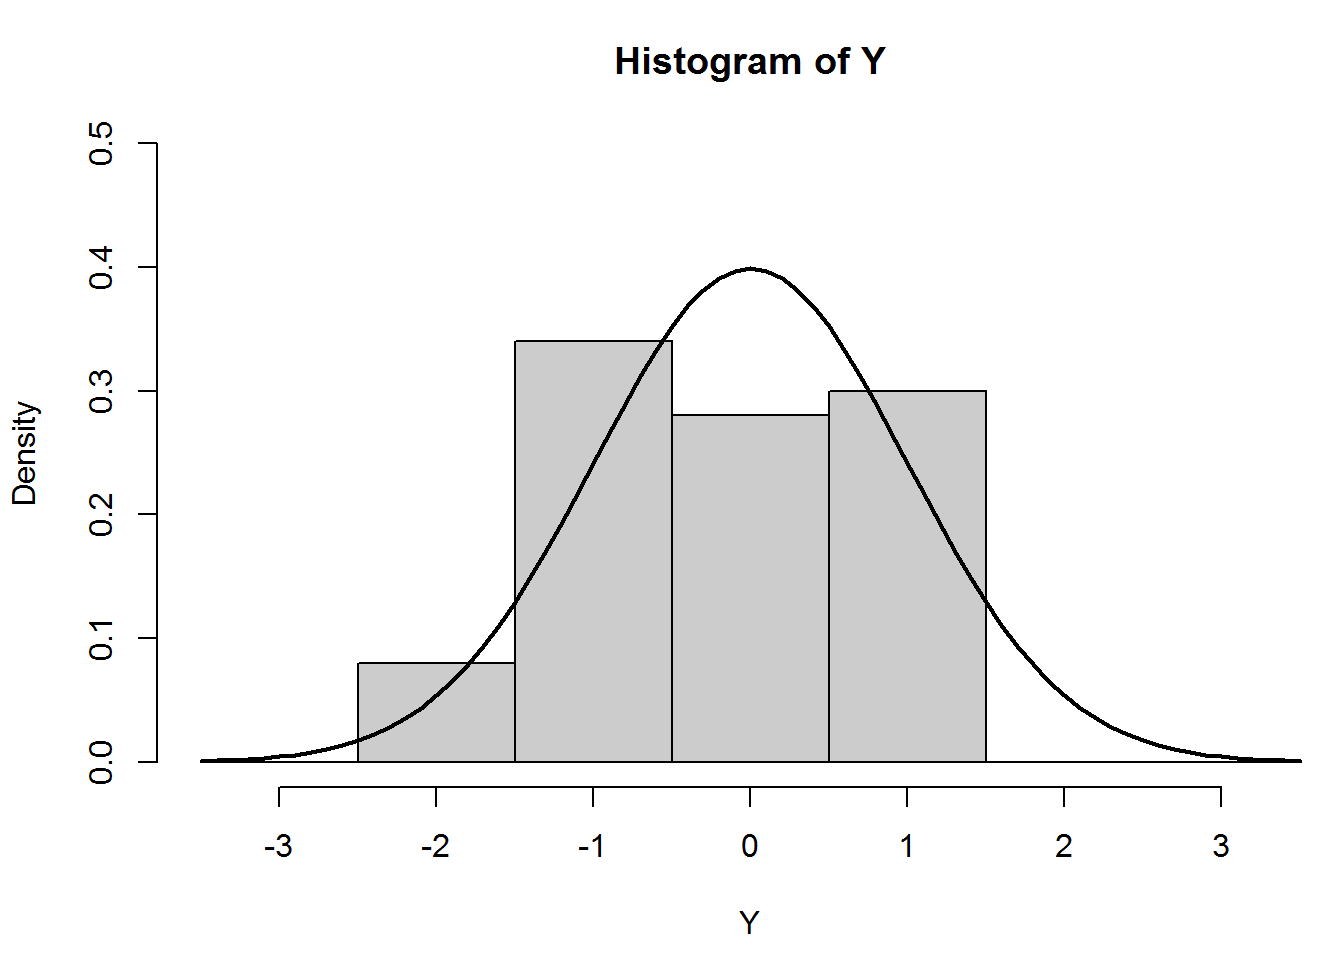
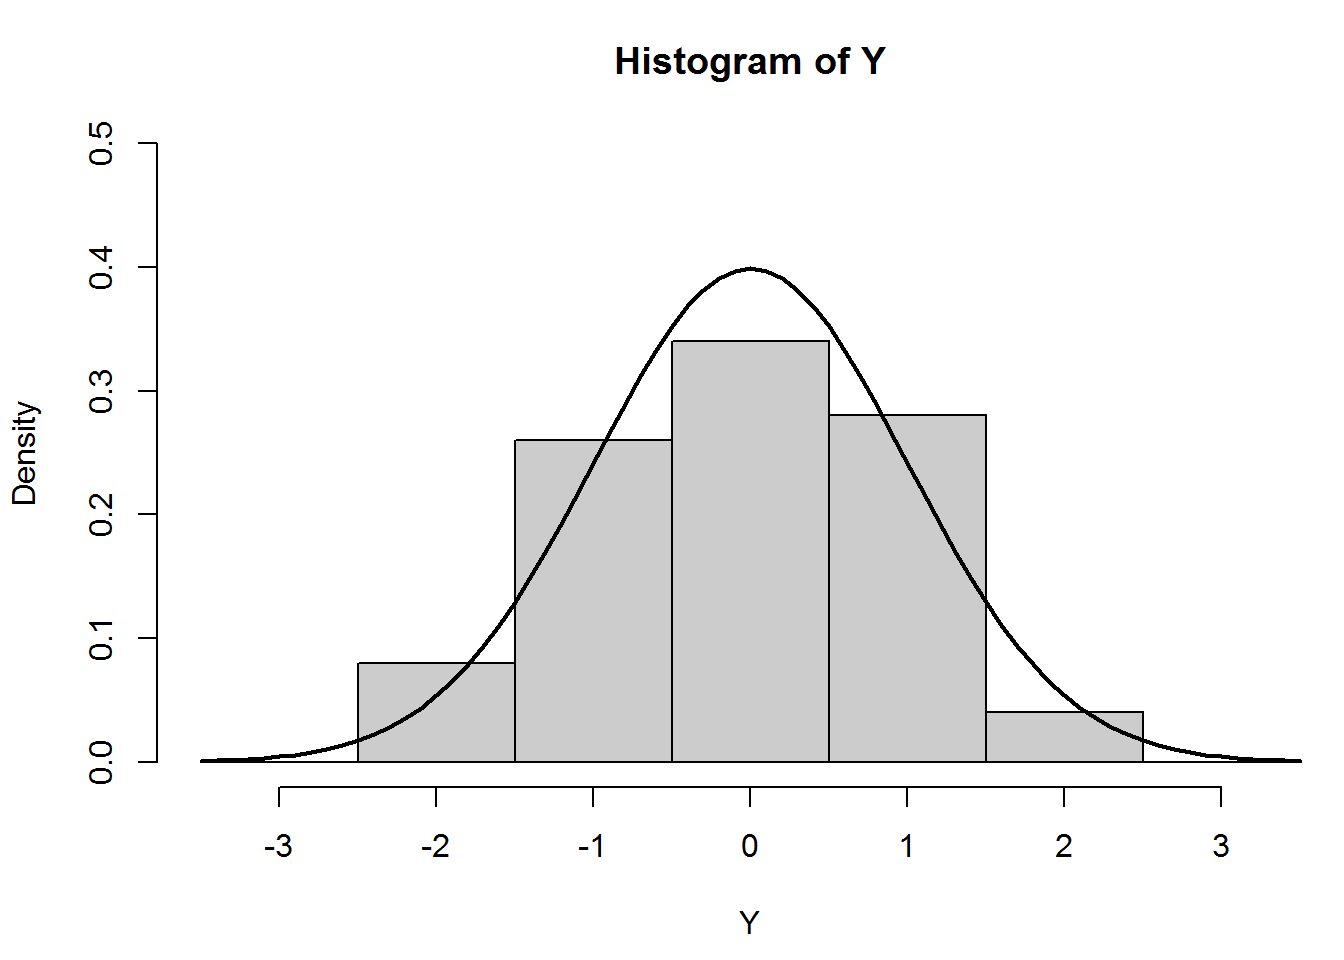
Mejoras.

Changed region(s): [[0.375, 0.3438, 0.75, 0.4688], [0.7188, 0.7188, 0.875, 0.8125]]

diff --git a/about.html b/about.html
@@ -336,7 +336,7 @@ $(document).ready(function () {
 <p>Email: <a href="mailto:yuasaavedraco@unal.edu.co">yuasaavedraco@unal.edu.co</a></p>
 </div>
 <div class="col-md-4">
-<p><img src="about_files/figure-html/unnamed-chunk-1-1.png" width="672" style="display: block; margin: auto auto auto 0;" /></p>
+<p><img src="about_files/figure-html/unnamed-chunk-1-1.png" width="400" height="400" style="display: block; margin: auto auto auto 0;" /></p>
 </div>
 </div>
 <div id="academic-profile" class="section level3">
@@ -365,12 +365,12 @@ $(document).ready(function () {
 </ul></li>
 </ul>
 </div>
-<div id="experiences" class="section level3">
-<h3>Experiences</h3>
+<div id="academic-experiences" class="section level3">
+<h3>Academic experiences</h3>
 <ul>
 <li><p><a href="https://www.logros.co/profesores">Profesor en Logros, ayudas pedagógicas.</a></p>
 <ul>
-<li>Estadísticas.</li>
+<li>Estadística.</li>
 <li>Probabilidad.</li>
 <li>Matemáticas básicas.</li>
 <li>Cálculo I, II y III.</li>

diff --git a/University.html b/University.html
@@ -334,6 +334,8 @@ $(document).ready(function () {
 <li><p><a href="https://github.com/yuasaavedraco/yuasaavedraco.github.io/blob/master/Docs/Cantidad%20de%20personas%20atendidas%20en%20un%20intervalo%20de%20dos%20minutos.pdf"><em>Cantidad de personas atendidas en una cafeteria en un intervalo de dos minutos.</em></a></p></li>
 <li><p><a href="https://github.com/yuasaavedraco/yuasaavedraco.github.io/blob/master/Docs/Cómo%20estimar%20la%20altura%20de%20un%20árbol.pdf"><em>¿Cómo estimar la edad de un árbol?</em></a></p></li>
 </ul>
+<p><img src="University_files/figure-html/unnamed-chunk-1-1.png" width="1000" height="1000" style="display: block; margin: auto;" /></p>
+<pre><code>## [1] &quot;Facultad de Ciencias&quot;</code></pre>
 <br>
 <hr>
 <p>
